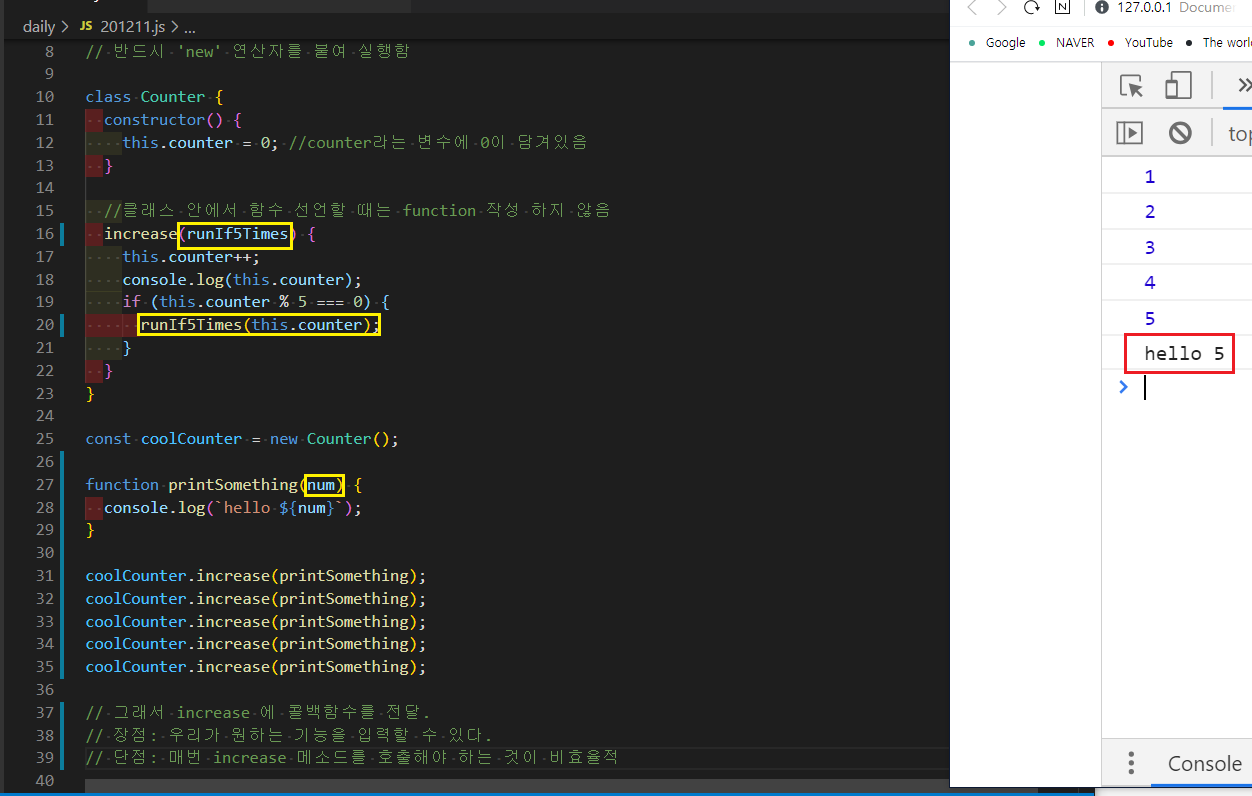
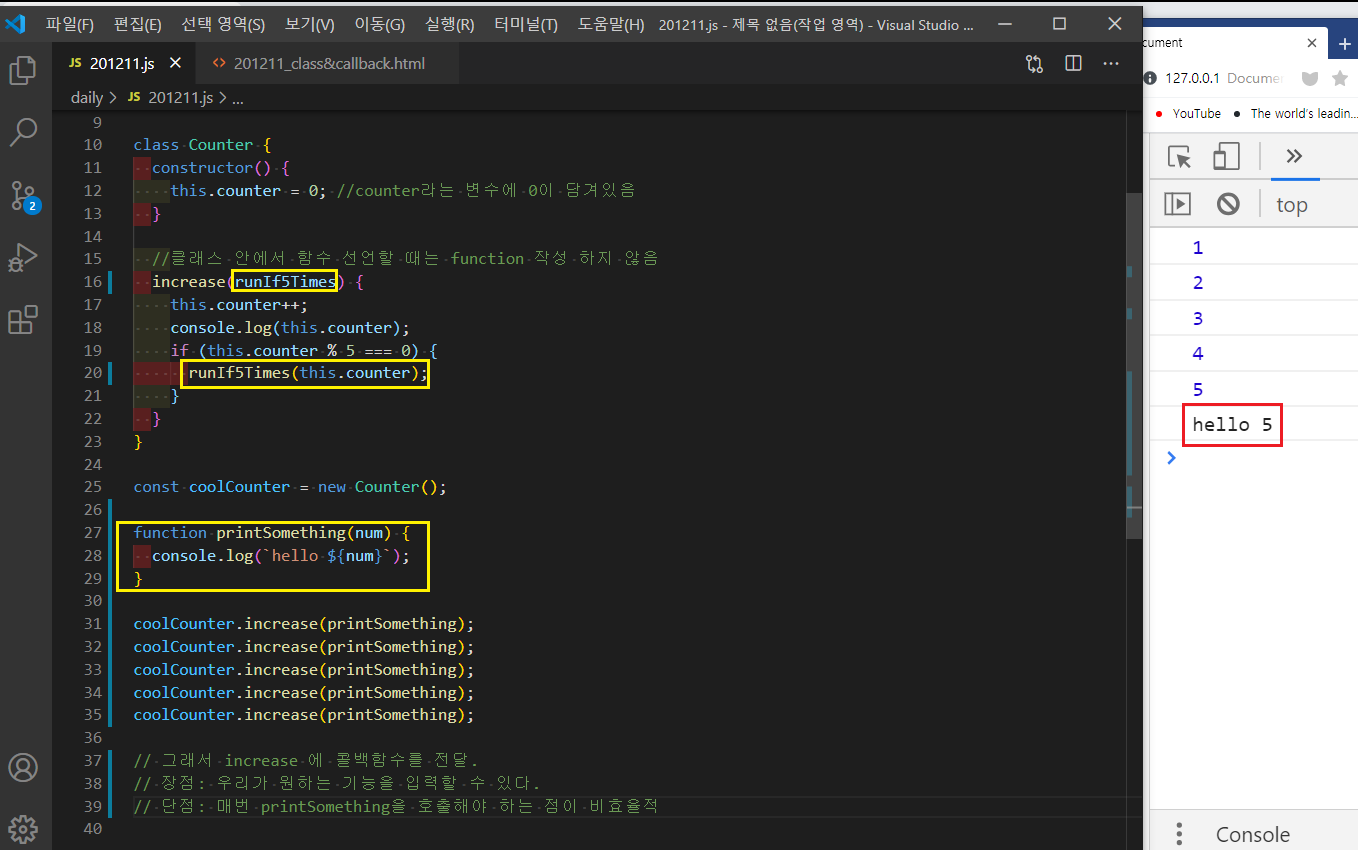
class_3

Changed region(s): [[0.0, 0.0, 1.0, 1.0], [0.3427, 0.3015, 0.405, 0.3317], [0.0, 0.3618, 0.0312, 0.392]]

diff --git a/201211.js b/201211.js
@@ -8,32 +8,34 @@
 // 반드시 'new' 연산자를 붙여 실행함
 
 class Counter {
-  constructor() {
-    this.counter = 0; //counter라는 변수에 0이 담겨있음
+  //콜백함수를 받아오는거임
+  //constructor도 함수니까
+  //runEveryFiveTimes라는 인자에서 받아온 값을
+  //this.callback이라는 변수에 할당함
+  constructor(runEvery5Times) {
+    this.counter = 0;
+    this.callback = runEvery5Times;
   }
 
-  //클래스 안에서 함수 선언할 때는 function 작성 하지 않음
-  increase(runIf5Times) {
+  increase() {
     this.counter++;
     console.log(this.counter);
     if (this.counter % 5 === 0) {
-      runIf5Times(this.counter);
+      this.callback(this.counter);
     }
   }
 }
-
-const coolCounter = new Counter();
 
 function printSomething(num) {
   console.log(`hello ${num}`);
 }
 
-coolCounter.increase(printSomething);
-coolCounter.increase(printSomething);
-coolCounter.increase(printSomething);
-coolCounter.increase(printSomething);
-coolCounter.increase(printSomething);
+//그리고나서 생성자함수에 우리가 웜하는 콜백함수를 전달함
+//callback은 printSomething을 가리킴
+const coolCounter = new Counter(printSomething);
 
-// 그래서 increase 에 콜백함수를 전달.
-// 장점: 우리가 원하는 기능을 입력할 수 있다.
-// 단점: 매번 printSomething을 호출해야 하는 점이 비효율적
+coolCounter.increase();
+coolCounter.increase();
+coolCounter.increase();
+coolCounter.increase();
+coolCounter.increase();
